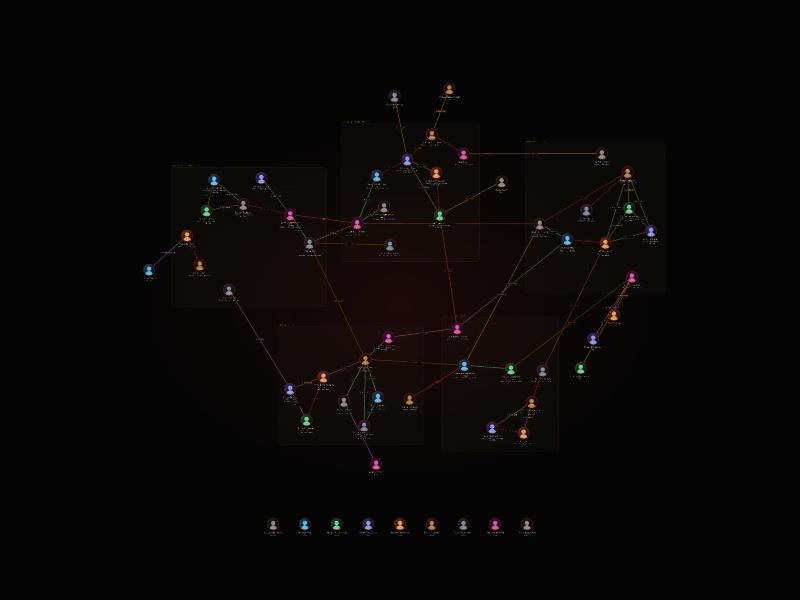
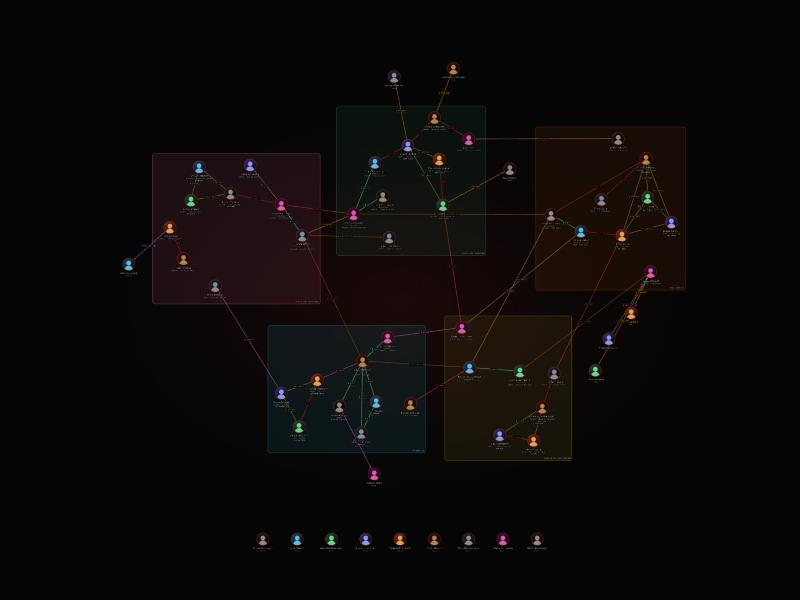
Colour each group outline; label it in the lower right
- Every covenant, clan or coterie outline gets a colour of its own: a
  firmer outline, a faint wash inside and the name in a lighter tint.
  Eight colours, checked so every pair stays apart for full colour
  vision and under simulated red-green colour blindness.
- A group's colour follows from its name, so it is the same on every
  map, and is settled from every group on the map so all players see
  the same colours whichever groups they can see.
- The name sits in the lower right corner inside the outline, clear of
  bond labels, and no longer carries a member count.

diff --git a/README.md b/README.md
@@ -16,7 +16,7 @@ system. It runs in any other system too; it just has less to print under each na
 
 ![Rank, bloodline and coterie under each name; Destroyed, Missing and Torpor flags](docs/status.jpg)
 
-![Auto layout: sixty characters, each covenant on ground of its own, the unattached beneath](docs/auto-layout.jpg)
+![Auto layout: sixty characters, each covenant in its own colour on ground of its own, the unattached beneath](docs/auto-layout.jpg)
 
 *Screenshots are from the development preview, with stand-in portraits and an invented court.*
 
@@ -105,8 +105,13 @@ A token's ordinary *hidden* toggle still works and hides it from every player.
   by name; press Enter to jump there.
 - **Filters.** Hide bond types you do not want to look at right now. Filters are personal.
 - **Appearance.** Portrait source (Actor portrait or token image), outlines around each
-  covenant, clan or coterie (a character with none gets no outline), patterned lines by
-  family, and a layout lock.
+  covenant, clan or coterie, patterned lines by family, and a layout lock.
+- **Group outlines.** Each group is drawn in a colour of its own, as an outline with a
+  faint wash inside and its name in the lower right corner. A group keeps its colour
+  from map to map, and it is the same colour for everyone at the table, whichever
+  groups each player can see. There are eight colours, picked to stay apart for
+  colour-blind readers too; a ninth group shares one. A character with no covenant,
+  clan or coterie gets no outline.
 - **Status.** Flag a character from their dossier with one click: Torpor, Missing, Left
   the City, Dead or Destroyed. The map shows it four ways at once, so it reads at any
   zoom: a boxed caption under the name, a badge on the portrait, a drained portrait, and
@@ -159,8 +164,8 @@ about, to try the arrangements on. It is not a substitute for testing in a real 
 To publish a release, push a version tag:
 
 ```
-git tag v0.3.0
-git push origin v0.3.0
+git tag v0.3.1
+git push origin v0.3.1
 ```
 
 GitHub Actions stamps the version into `module.json`, builds `module.zip` and attaches both

diff --git a/CHANGELOG.md b/CHANGELOG.md
@@ -1,5 +1,16 @@
 # Changelog
 
+## 0.3.1
+
+- Group outlines are coloured: each covenant, clan or coterie gets a colour of
+  its own, as a firmer outline with a faint wash inside. A group keeps its
+  colour from map to map and is the same colour for every player, whichever
+  groups they can see. The eight colours were checked to stay apart from one
+  another, for colour-blind readers too; past eight groups they come round again.
+- The group's name sits in the lower right corner, inside the outline, where it
+  keeps clear of bond labels.
+- The name no longer carries a count of the group's members.
+
 ## 0.3.0
 
 - **Auto layout** (Arrange → Auto layout) replaces the old Network arrangement
